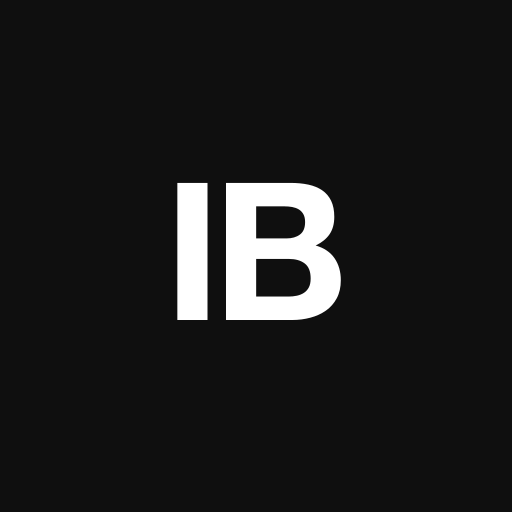
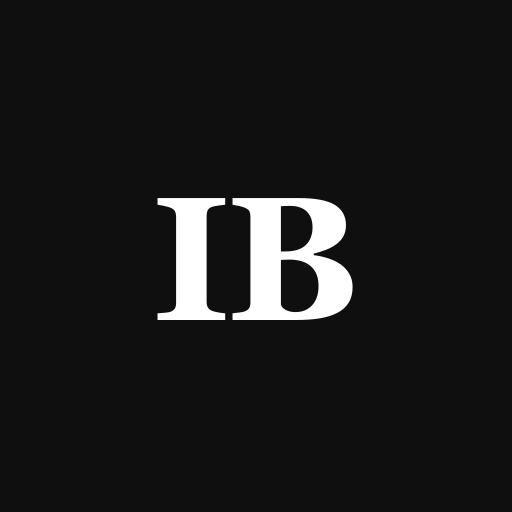
feat(brand): unify brand voice on Georgia bold uppercase
Align every surface that carries the Inside Bars wordmark or "IB" mark
to the same Georgia bold uppercase voice already used by Header
.heading-display. Earlier the email template + OG card used a Syne /
heavy-grotesque variant, which read as a different brand at a glance.

- supabase/email-templates/confirm-signup.html: drop Syne Google Font,
  switch IB tile + INSIDE·BARS wordmark + ALMOST IN. headline + CTA
  to Georgia bold (uppercase for the wordmark + headline)
- public/favicon.svg + all PWA/apple-touch PNGs: Georgia bold "IB"
- public/favicon.ico: now a real multi-resolution ICO (16/32/48)
  generated via ico-endec instead of the legacy untouched fallback
- public/og-image.png: re-rendered with Georgia bold uppercase
  headline ("WHAT'S ON / tonight / IN BERLIN BARS?") matching the
  in-app .heading-display + .heading-editorial italic accent
- index.html: bump favicon/apple-touch/og cache-busters to v=5
- scripts/generate-icons.mjs: extend to also emit og-image.png and
  favicon.ico from the same SVG sources

Changed region(s): [[0.3125, 0.3438, 0.6875, 0.625]]

diff --git a/supabase/email-templates/confirm-signup.html b/supabase/email-templates/confirm-signup.html
@@ -7,7 +7,7 @@
     <meta name="color-scheme" content="light only" />
     <meta name="supported-color-schemes" content="light only" />
     <title>Welcome to Inside Bars</title>
-    <link href="https://fonts.googleapis.com/css2?family=Syne:wght@700;800&family=Space+Mono:wght@400;700&display=swap" rel="stylesheet" />
+    <link href="https://fonts.googleapis.com/css2?family=Space+Mono:wght@400;700&display=swap" rel="stylesheet" />
     <style>
       body, table, td, a { -webkit-text-size-adjust: 100%; -ms-text-size-adjust: 100%; }
       table, td { mso-table-lspace: 0pt; mso-table-rspace: 0pt; }
@@ -52,13 +52,13 @@
                       <a href="https://www.insidebars.co" target="_blank" style="text-decoration:none; border:0; color:#0F0F0F;">
                         <table role="presentation" cellspacing="0" cellpadding="0" border="0" style="width:80px; height:80px; border:2px solid #0F0F0F; border-radius:14px; background-color:#FFFFFF;">
                           <tr>
-                            <td align="center" valign="middle" height="76" style="height:76px; font-family:'Syne', 'Helvetica Neue', Arial, sans-serif; font-size:44px; font-weight:800; letter-spacing:-0.04em; color:#0F0F0F; line-height:1; text-align:center;">
+                            <td align="center" valign="middle" height="76" style="height:76px; font-family:Georgia, 'Times New Roman', Times, serif; font-size:40px; font-weight:bold; letter-spacing:-0.04em; color:#0F0F0F; line-height:1; text-align:center;">
                               IB
                             </td>
                           </tr>
                         </table>
                       </a>
-                      <p style="margin:20px 0 0; font-family:'Syne', 'Helvetica Neue', Arial, sans-serif; font-size:13px; font-weight:800; letter-spacing:0.04em; text-transform:uppercase; color:#0F0F0F; line-height:1; white-space:nowrap;">
+                      <p style="margin:20px 0 0; font-family:Georgia, 'Times New Roman', Times, serif; font-size:14px; font-weight:bold; letter-spacing:0.02em; text-transform:uppercase; color:#0F0F0F; line-height:1; white-space:nowrap;">
                         Inside<span style="display:inline-block; width:6px; height:6px; background-color:#EE6022; border-radius:50%; vertical-align:middle; margin:0 5px 3px 5px;"></span>Bars
                       </p>
                       <p style="margin:10px 0 0; font-family:'Space Mono', Menlo, Monaco, monospace; font-size:9px; font-weight:400; letter-spacing:0.18em; text-transform:uppercase; color:#6B7280; line-height:1.5;">
@@ -73,7 +73,7 @@
                         <span style="display:inline-block; width:6px; height:6px; background-color:#EE6022; border-radius:50%; vertical-align:middle; margin-right:8px;"></span>
                         Confirm signup
                       </p>
-                      <h1 class="heading-mobile" style="margin:0; font-family:'Syne', 'Helvetica Neue', Arial, sans-serif; font-size:52px; line-height:1; font-weight:800; letter-spacing:-0.035em; color:#0F0F0F; white-space:nowrap;">
+                      <h1 class="heading-mobile" style="margin:0; font-family:Georgia, 'Times New Roman', Times, serif; font-size:48px; line-height:1; font-weight:bold; letter-spacing:-0.025em; text-transform:uppercase; color:#0F0F0F; white-space:nowrap;">
                         Almost in.
                       </h1>
                       <p style="margin:24px 0 0; font-family:'Helvetica Neue', Arial, sans-serif; font-size:15px; line-height:1.6; color:#3D3D3D; max-width:340px;">
@@ -84,7 +84,7 @@
                       <table role="presentation" cellspacing="0" cellpadding="0" border="0" style="margin-top:32px;">
                         <tr>
                           <td style="background-color:#EE6022; border:2px solid #0F0F0F;">
-                            <a href="{{ .SiteURL }}/confirm?token_hash={{ .TokenHash }}&amp;type=signup" target="_blank" style="display:inline-block; padding:18px 32px; font-family:'Syne', 'Helvetica Neue', Arial, sans-serif; font-size:13px; font-weight:800; letter-spacing:0.18em; text-transform:uppercase; color:#0F0F0F; text-decoration:none;">
+                            <a href="{{ .SiteURL }}/confirm?token_hash={{ .TokenHash }}&amp;type=signup" target="_blank" style="display:inline-block; padding:18px 32px; font-family:Georgia, 'Times New Roman', Times, serif; font-size:14px; font-weight:bold; letter-spacing:0.15em; text-transform:uppercase; color:#0F0F0F; text-decoration:none;">
                               Confirm email&nbsp;&nbsp;→
                             </a>
                           </td>

diff --git a/index.html b/index.html
@@ -7,9 +7,9 @@
     <meta name="description" content="Find live music, quiz nights, open mics, and community events in small independent bars across Berlin.">
     <meta name="author" content="Inside Bars" />
     <meta name="theme-color" content="#0F0F0F" />
-    <link rel="icon" type="image/svg+xml" href="/favicon.svg?v=4" />
-    <link rel="icon" type="image/x-icon" href="/favicon.ico?v=3" sizes="any" />
-    <link rel="apple-touch-icon" href="/apple-touch-icon.png?v=4" />
+    <link rel="icon" type="image/svg+xml" href="/favicon.svg?v=5" />
+    <link rel="icon" type="image/x-icon" href="/favicon.ico?v=5" sizes="any" />
+    <link rel="apple-touch-icon" href="/apple-touch-icon.png?v=5" />
     <link rel="canonical" href="https://insidebars.co/" />
 
     <meta property="og:type" content="website" />
@@ -17,7 +17,7 @@
     <meta property="og:site_name" content="Inside Bars" />
     <meta property="og:title" content="Inside Bars — Discover events in Berlin bars" />
     <meta property="og:description" content="Find live music, quiz nights, open mics, and community events in small independent bars across Berlin." />
-    <meta property="og:image" content="https://insidebars.co/og-image.png?v=3" />
+    <meta property="og:image" content="https://insidebars.co/og-image.png?v=5" />
     <meta property="og:image:width" content="1200" />
     <meta property="og:image:height" content="630" />
     <meta property="og:image:type" content="image/png" />
@@ -26,7 +26,7 @@
     <meta name="twitter:card" content="summary_large_image" />
     <meta name="twitter:title" content="Inside Bars — Discover events in Berlin bars" />
     <meta name="twitter:description" content="Find live music, quiz nights, open mics, and community events in small independent bars across Berlin." />
-    <meta name="twitter:image" content="https://insidebars.co/og-image.png?v=3" />
+    <meta name="twitter:image" content="https://insidebars.co/og-image.png?v=5" />
   </head>
 
   <body>
